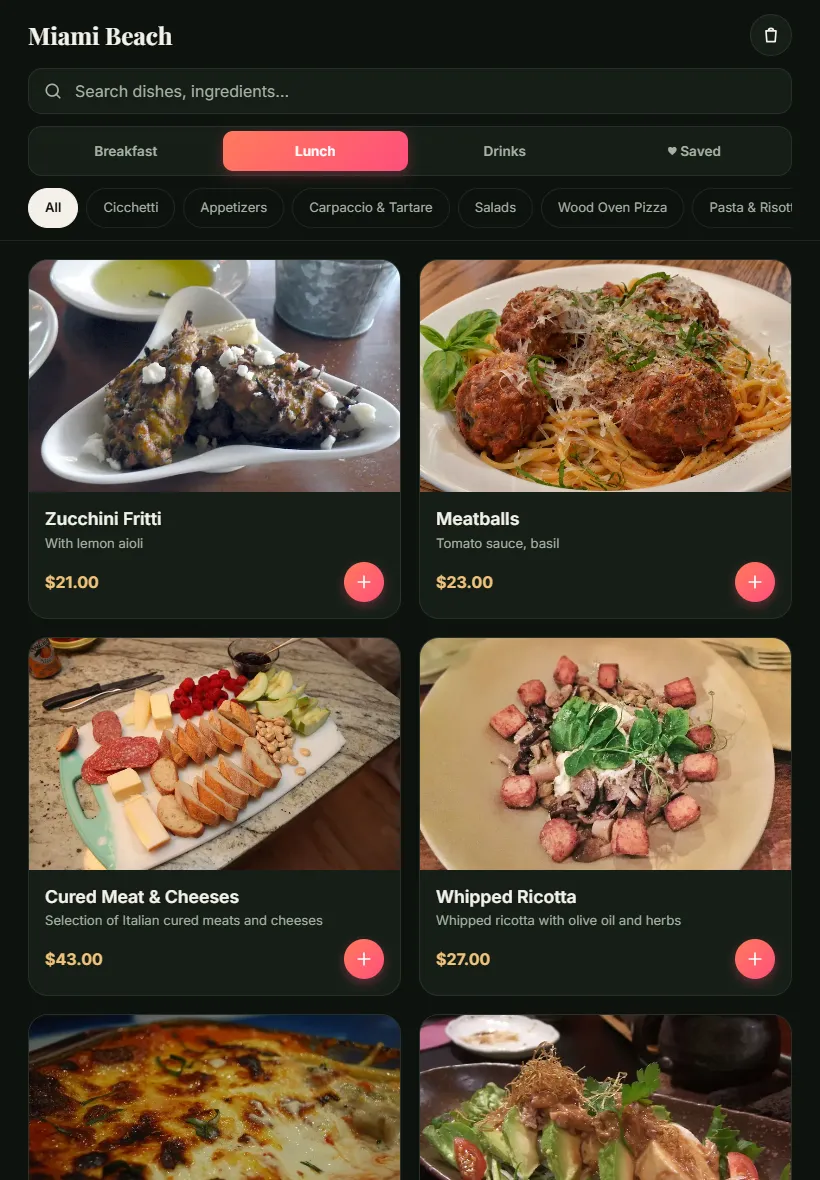
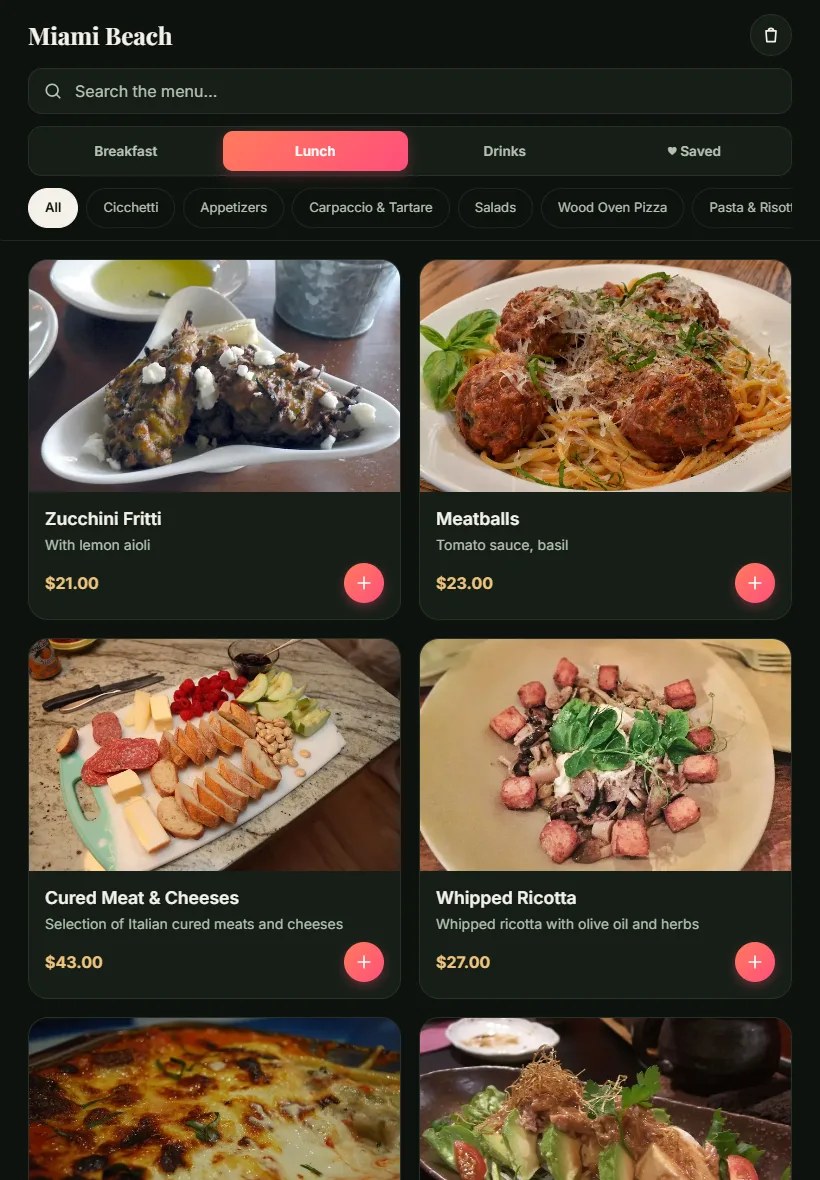
Add case study, AI-assistance disclosure, large-screen and small-phone layout improvements, new screenshots

diff --git a/styles.css b/styles.css
@@ -4,7 +4,7 @@
   --surface-2: #1c281d;
   --line: rgba(255, 255, 255, 0.08);
   --text: #f4f1ea;
-  --muted: #a7b2a3;
+  --muted: #b6c1b2;
   --accent: #ff7a5c;
   --accent-2: #ff4f7b;
   --gold: #f0c27b;
@@ -737,7 +737,7 @@ html { -webkit-text-size-adjust: 100%; text-size-adjust: 100%; }
 body { overscroll-behavior-y: none; }
 
 /* 16px inputs stop iOS Safari from zooming the page on focus */
-.search input { font-size: 16px; }
+.search input { font-size: max(16px, 1rem); }
 
 /* Comfortable tap targets on touch screens */
 .add-button { width: 40px; height: 40px; }
@@ -762,4 +762,38 @@ body { overscroll-behavior-y: none; }
 @media (min-width: 1000px) {
   #welcome-screen { align-items: center; }
   .welcome-overlay { padding-bottom: 32px; }
+}
+
+/* ---------- Legibility on every screen ---------- */
+.dish-info .description { font-size: 0.88rem; }
+.group-tab { white-space: nowrap; }
+
+/* Very narrow screens (small phones, folded foldables) */
+@media (max-width: 340px) {
+  #menu-screen { padding-left: 12px; padding-right: 12px; }
+  .menu-header { margin: 0 -12px; padding-left: 12px; padding-right: 12px; }
+  .group-tab { font-size: 0.74rem; padding: 10px 2px; }
+  .dish-photo { width: 92px; height: 92px; }
+  .dish-card { gap: 10px; }
+}
+
+/* Large monitors: scale text up and use the extra width */
+@media (min-width: 1600px) {
+  html { font-size: 112.5%; }
+  #menu-screen { max-width: 1520px; }
+  .dish-grid { grid-template-columns: repeat(4, 1fr); }
+  #detail-screen { max-width: 1280px; }
+  .menu-header { margin-left: -28px; margin-right: -28px; }
+}
+
+@media (min-width: 2200px) {
+  html { font-size: 137.5%; }
+  #menu-screen { max-width: 1960px; }
+  .dish-grid { grid-template-columns: repeat(5, 1fr); }
+  #detail-screen { max-width: 1640px; }
+}
+
+/* Respect users who ask for more contrast */
+@media (prefers-contrast: more) {
+  :root { --muted: #d4dccf; --line: rgba(255, 255, 255, 0.28); }
 }

diff --git a/index.html b/index.html
@@ -24,6 +24,7 @@
 </head>
 <body>
 
+  <main id="app">
   <!-- Welcome -->
   <section id="welcome-screen" aria-labelledby="welcome-title">
     <div class="welcome-overlay">
@@ -46,14 +47,14 @@
       </div>
       <label class="search">
         <svg viewBox="0 0 24 24" aria-hidden="true"><circle cx="11" cy="11" r="7"/><path d="m20 20-4-4"/></svg>
-        <input id="search-input" type="search" placeholder="Search dishes, ingredients…" aria-label="Search the menu" autocomplete="off">
+        <input id="search-input" type="search" placeholder="Search the menu…" aria-label="Search the menu" autocomplete="off">
       </label>
       <div id="group-tabs" class="group-tabs" role="tablist" aria-label="Menu sections"></div>
       <div id="category-chips" class="category-chips" aria-label="Categories"></div>
     </header>
 
-    <main id="dish-list" class="dish-list" aria-live="polite"></main>
-    <p class="footer-note">Photos: openly licensed images &middot; <a href="images/CREDITS.md">Credits</a></p>
+    <div id="dish-list" class="dish-list" aria-live="polite"></div>
+    <p class="footer-note">Portfolio demo, built while learning with the help of AI &middot; Photos: openly licensed &middot; <a href="images/CREDITS.md">Credits</a></p>
   </section>
 
   <!-- Floating cart bar -->
@@ -110,6 +111,7 @@
       </div>
     </div>
   </section>
+  </main>
 
   <!-- Order drawer -->
   <div id="cart-backdrop" class="backdrop hidden"></div>

diff --git a/README.md b/README.md
@@ -1,26 +1,48 @@
 # Miami Beach · Digital QR Menu
 
-A mobile-first digital menu for an Italian restaurant. Guests scan a QR code, browse the menu, customise dishes and build an order, all from their phone. Built with plain HTML, CSS and JavaScript, with no framework and no build step.
+A mobile-first digital menu for an Italian restaurant. Guests scan a QR code, browse the menu, customise dishes and build an order, all from their phone. Built with plain HTML, CSS and JavaScript: no framework, no dependencies, no build step.
 
-**Live demo:** https://gudagit.github.io/restaurant-menu-app/
+**Live demo:** https://gudagit.github.io/restaurant-menu-app/  
+**Case study (what I did, screens, results):** [CASE-STUDY.md](CASE-STUDY.md)
 
 <p align="center">
-  <img src="screenshots/mobile-welcome.webp" width="23%" alt="Welcome screen">
-  <img src="screenshots/mobile-menu.webp" width="23%" alt="Menu">
-  <img src="screenshots/mobile-detail.webp" width="23%" alt="Dish detail">
-  <img src="screenshots/mobile-order.webp" width="23%" alt="Order drawer">
+  <img src="screenshots/mobile-1-welcome.webp" width="19%" alt="Welcome screen">
+  <img src="screenshots/mobile-2-menu.webp" width="19%" alt="Menu with section tabs and category chips">
+  <img src="screenshots/mobile-3-search.webp" width="19%" alt="Live search results">
+  <img src="screenshots/mobile-4-detail-options.webp" width="19%" alt="Dish detail with variants and extras">
+  <img src="screenshots/mobile-5-order.webp" width="19%" alt="Order drawer with totals">
+</p>
+
+<p align="center">
+  <img src="screenshots/desktop-2-menu.webp" width="62%" alt="Desktop menu grid">
+  <img src="screenshots/tablet-menu.webp" width="30%" alt="Tablet layout">
 </p>
 
 ## Features
 
-- **Browse** by section (Breakfast / Lunch / Drinks) and category, with live search across names, descriptions and categories.
-- **Dish detail** with a large photo, variants (e.g. Eggs Benedict), and extras that depend on the dish type (coffee gets extra shot and oat milk, pizza gets chili oil and so on).
+- **Browse** by section (Breakfast, Lunch, Drinks) and category, with **live search** across names, descriptions and categories.
+- **Dish detail** with a large photo, variants with their own prices (e.g. Eggs Benedict), and extras that depend on the dish type (coffee gets extra shot and oat milk, pizza gets chili oil, and so on).
 - **Order cart:** quick add, floating order bar, bottom-sheet drawer with quantity controls, service charge and total. The cart persists across reloads via `localStorage`.
-- **Favourites** saved on the device and shown in their own tab, plus a **Share** button that uses the Web Share API with a clipboard fallback.
-- **Responsive:** phone, tablet and desktop layouts, safe-area support for notched phones, touch-friendly targets and `prefers-reduced-motion` support.
-- **Accessible:** semantic buttons, ARIA labels, visible focus states, keyboard navigation and Escape to close.
-- **Installable:** includes a web app manifest, so it can be added to a phone's home screen.
-- **Fast:** images are resized WebP (about 4 MB for the whole menu), lazy-loaded with a shimmer placeholder.
+- **Favourites** saved on the device in their own tab, plus a **Share** button using the Web Share API with a clipboard fallback.
+- **Responsive** from 280 px to 2560 px: 1 column on phones, 2 on tablets, 3 to 5 on laptops and large monitors, with text scaling up on big screens, safe-area support for notched phones, touch-friendly targets, and `prefers-reduced-motion` and `prefers-contrast` support.
+- **Accessible:** semantic landmarks and buttons, ARIA labels, visible focus states, keyboard navigation and Escape to close dialogs.
+- **Installable:** a web app manifest lets guests add the menu to their home screen.
+- **Fast:** images are resized WebP (about 4 MB for 103 dishes), lazy-loaded with a shimmer placeholder.
+
+## How this was made
+
+I built this project while learning front-end development, working together with an AI coding assistant. The assistant helped write and refactor code, and helped test the layout on different screen sizes. I decided what to build, the look and the features, chose the menu content and the photos, checked every photo's licence, reviewed and tested the result, and published it. I can walk through how each part of the code works.
+
+## Quality checks
+
+Lighthouse run against a local server (mobile run uses Lighthouse's simulated throttling):
+
+| | Performance | Accessibility | Best Practices | SEO |
+|---|---|---|---|---|
+| Mobile | 92 | 100 | 100 | 100 |
+| Desktop | 99 | 100 | 100 | 100 |
+
+Layout was also checked in headless Chrome at 11 screen sizes, from a 280 px folded phone through phones, landscape phones, tablets and laptops up to a 2560 px monitor: no console errors, no horizontal scrolling, and every tap target at least 36 px.
 
 ## Run locally
 
@@ -34,13 +56,13 @@ npx http-server -p 5500
 ## Project structure
 
 ```
-index.html        page markup
-styles.css        design tokens, layout and responsive rules
-script.js         rendering, search, cart, favourites
-menu-data.js      the whole menu as data (edit this to change dishes and prices)
-images/           optimised dish photos + CREDITS.md
-screenshots/      images used in this README
-manifest.webmanifest
+index.html            page markup
+styles.css            design tokens, layout and responsive rules
+script.js             rendering, search, cart, favourites
+menu-data.js          the whole menu as data (edit this to change dishes and prices)
+images/               optimised dish photos + CREDITS.md
+screenshots/          images used in this README
+manifest.webmanifest  web app manifest
 ```
 
 To add a dish, add an entry to `menu-data.js`. Optional fields: `options` for variants with their own prices, and `popular: true` for the "Popular" badge.
@@ -48,6 +70,6 @@ To add a dish, add an entry to `menu-data.js`. Optional fields: `options` for va
 ## Licensing and credits
 
 - **Code:** MIT, see [LICENSE](LICENSE). Everything in the HTML, CSS and JavaScript was written for this project, and no third-party code or libraries are used.
-- **Fonts:** [Inter](https://fonts.google.com/specimen/Inter) and [Playfair Display](https://fonts.google.com/specimen/Playfair+Display), both SIL Open Font License, loaded from Google Fonts.
-- **Photos:** openly licensed stock images (CC BY, CC BY-SA, CC0) found through Openverse. Every photo is credited in [images/CREDITS.md](images/CREDITS.md). They are not photos of the restaurant’s real dishes.
+- **Fonts:** [Inter](https://fonts.google.com/specimen/Inter) and [Playfair Display](https://fonts.google.com/specimen/Playfair+Display), both under the SIL Open Font License, loaded from Google Fonts.
+- **Photos:** openly licensed stock images (CC BY, CC BY-SA, CC0) found through Openverse. Every photo is credited in [images/CREDITS.md](images/CREDITS.md). They are not photos of a real restaurant's dishes.
 - **Demo only:** "Place order" shows a confirmation but does not send anything anywhere. The restaurant name and menu are placeholders made up for this demo.

diff --git a/CASE-STUDY.md b/CASE-STUDY.md
@@ -1,0 +1,107 @@
+# Case study: Miami Beach Digital QR Menu
+
+![Miami Beach digital menu on desktop and phone](screenshots/cover.jpg)
+
+**Live demo:** https://gudagit.github.io/restaurant-menu-app/
+**Source:** https://github.com/Gudagit/restaurant-menu-app
+
+This page explains what the project is, what I did, how I worked, and how I checked the result. A shorter overview is in the [README](README.md).
+
+## Summary
+
+A mobile-first digital menu for an Italian restaurant. Guests scan a QR code, search 103 dishes, choose variants and extras, save favourites and build an order with a running total. It is plain HTML, CSS and JavaScript with no framework and no dependencies, and it works from a 280 px folded phone to a 2560 px monitor.
+
+## How this was made
+
+This is a learning project. I built it together with an AI coding assistant, and I want that to be clear.
+
+**What the AI assistant helped with:** writing and refactoring code, suggesting layouts and checks, and automating tests and image processing.
+
+**What I did:**
+- Decided what the product should do and how it should look, and reviewed each change.
+- Chose the features: search, variants and extras, cart, favourites, sharing.
+- Edited the menu: removed and moved dishes, and removed third-party brand names.
+- Chose the photos and checked every licence (details below).
+- Tested the result on different screen sizes and in the browser, and reported what to fix.
+- Decided what to publish and what to keep private, and published the site on GitHub Pages.
+
+I can explain how each part of the code works.
+
+## Goal
+
+Build a realistic, polished front end for a restaurant QR menu that feels like a real product, without a framework or backend, and that stays fast on a phone.
+
+## Features
+
+1. **Live search and filtering** by section (Breakfast, Lunch, Drinks) and category.
+2. **Dish detail** with variants that have their own prices, and extras that depend on the dish type.
+3. **Cart** with quick add, a floating order bar, a bottom-sheet drawer, quantity controls, a service charge, and state that survives reloads.
+4. **Favourites** with their own tab, and native sharing with a clipboard fallback.
+5. **Installable** to the home screen through a web app manifest.
+
+## Screens
+
+<table>
+  <tr>
+    <td><img src="screenshots/mobile-1-welcome.webp" alt="Welcome screen"></td>
+    <td><img src="screenshots/mobile-2-menu.webp" alt="Menu with tabs and category chips"></td>
+    <td><img src="screenshots/mobile-3-search.webp" alt="Live search results"></td>
+  </tr>
+  <tr>
+    <td align="center">Welcome</td>
+    <td align="center">Menu</td>
+    <td align="center">Live search</td>
+  </tr>
+  <tr>
+    <td><img src="screenshots/mobile-4-detail-options.webp" alt="Dish detail with variants and extras"></td>
+    <td><img src="screenshots/mobile-5-order.webp" alt="Order drawer with totals"></td>
+    <td><img src="screenshots/mobile-6-confirmation.webp" alt="Order confirmation"></td>
+  </tr>
+  <tr>
+    <td align="center">Variants and extras</td>
+    <td align="center">Order drawer</td>
+    <td align="center">Confirmation (demo)</td>
+  </tr>
+</table>
+
+**Tablet and desktop**
+
+<p>
+  <img src="screenshots/tablet-menu.webp" width="32%" alt="Two-column menu on a tablet">
+  <img src="screenshots/desktop-2-menu.webp" width="65%" alt="Three-column menu on desktop">
+</p>
+<p>
+  <img src="screenshots/desktop-3-detail.webp" width="65%" alt="Two-column dish detail on desktop">
+  <img src="screenshots/desktop-1-welcome.webp" width="32%" alt="Welcome screen on desktop">
+</p>
+
+## Decisions and problems solved
+
+- **The same dish with different choices.** "Eggs Benedict with ham" and "with salmon" must be separate cart lines. Each line has a key made from the dish, the variant and the sorted extras, so identical choices merge and different ones stay apart.
+- **Heavy images.** The photos weighed about 9 MB. I resized them to 800 px and converted them to WebP (about 4 MB), lazy-loaded them, and used fixed aspect ratios so the page does not jump while loading (layout shift is 0).
+- **One layout for many devices.** The CSS is mobile-first: compact rows on phones, two columns on tablets, three to five on laptops and large monitors, text that scales up on big screens, safe-area padding for notches, and hover effects turned off on touch screens.
+- **Safe rendering.** Menu text is inserted with `textContent` instead of `innerHTML`, so menu data can never inject markup.
+- **Licensing.** I audited every photo. 27 had no source recorded and one had a licence that forbids changes. I replaced them. All 104 photos now use CC BY, CC BY-SA or CC0 licences and are credited in [images/CREDITS.md](images/CREDITS.md). Third-party brand names were removed from the menu.
+- **Accessibility issue found by testing.** Lighthouse reported a missing `main` landmark. I fixed it and accessibility went from 98 to 100.
+
+## Results
+
+| Measure | Result |
+|---|---|
+| Lighthouse, mobile | Performance 92, Accessibility 100, Best Practices 100, SEO 100 |
+| Lighthouse, desktop | Performance 99, Accessibility 100, Best Practices 100, SEO 100 |
+| Layout shift / blocking time | 0 / 0 ms |
+| Photo weight | about 9 MB down to about 4 MB |
+| Screen sizes checked | 11, from 280 px to 2560 px, no horizontal scrolling and no console errors |
+| Dependencies | none |
+| Menu | 103 dishes in 15 categories |
+
+Measured on a local server with Lighthouse's simulated mobile throttling, so treat the numbers as a snapshot.
+
+## What I would add next
+
+A backend so orders reach the kitchen, a staff screen, an admin page to edit the menu, more languages, and payments.
+
+## Licences
+
+Code is MIT ([LICENSE](LICENSE)). Fonts are Inter and Playfair Display (SIL Open Font License). Photos are openly licensed stock images and are not photos of a real restaurant. The restaurant name and menu are placeholders, and "Place order" is a demo that sends nothing.
